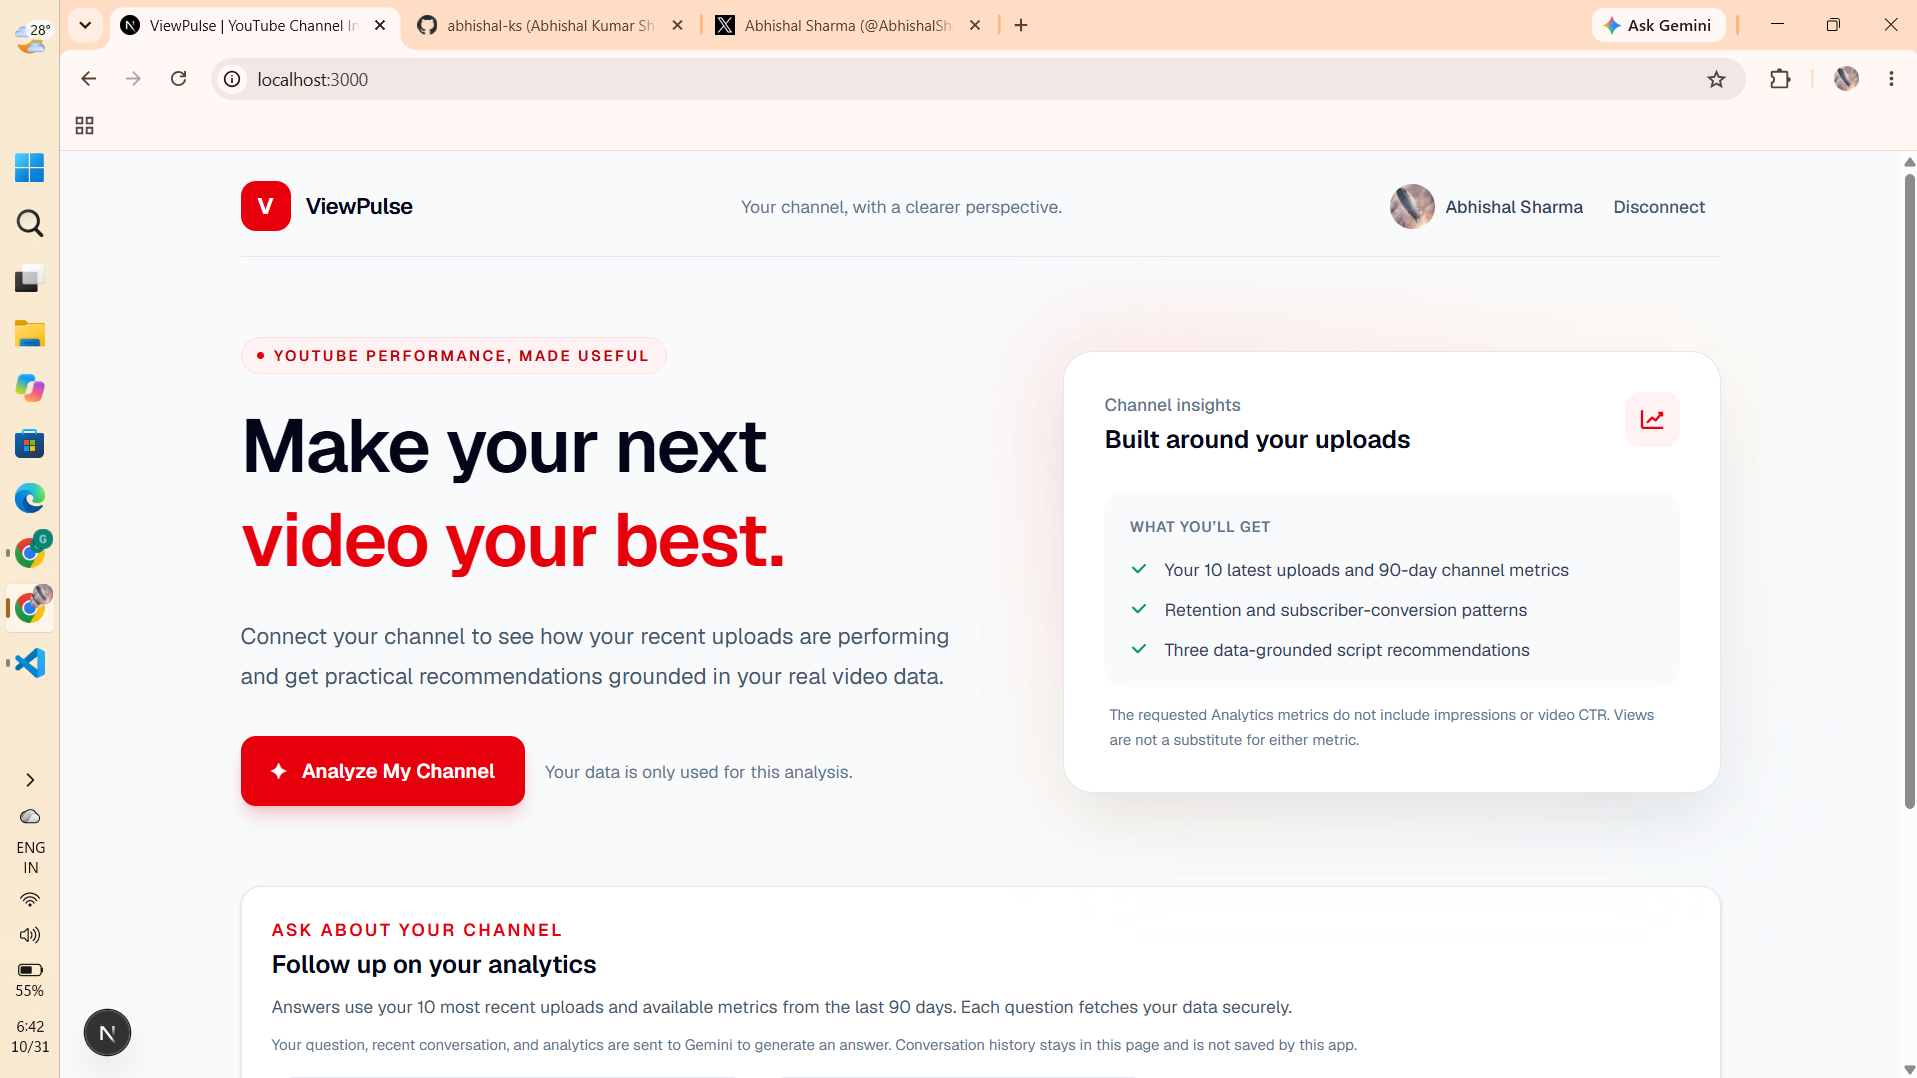
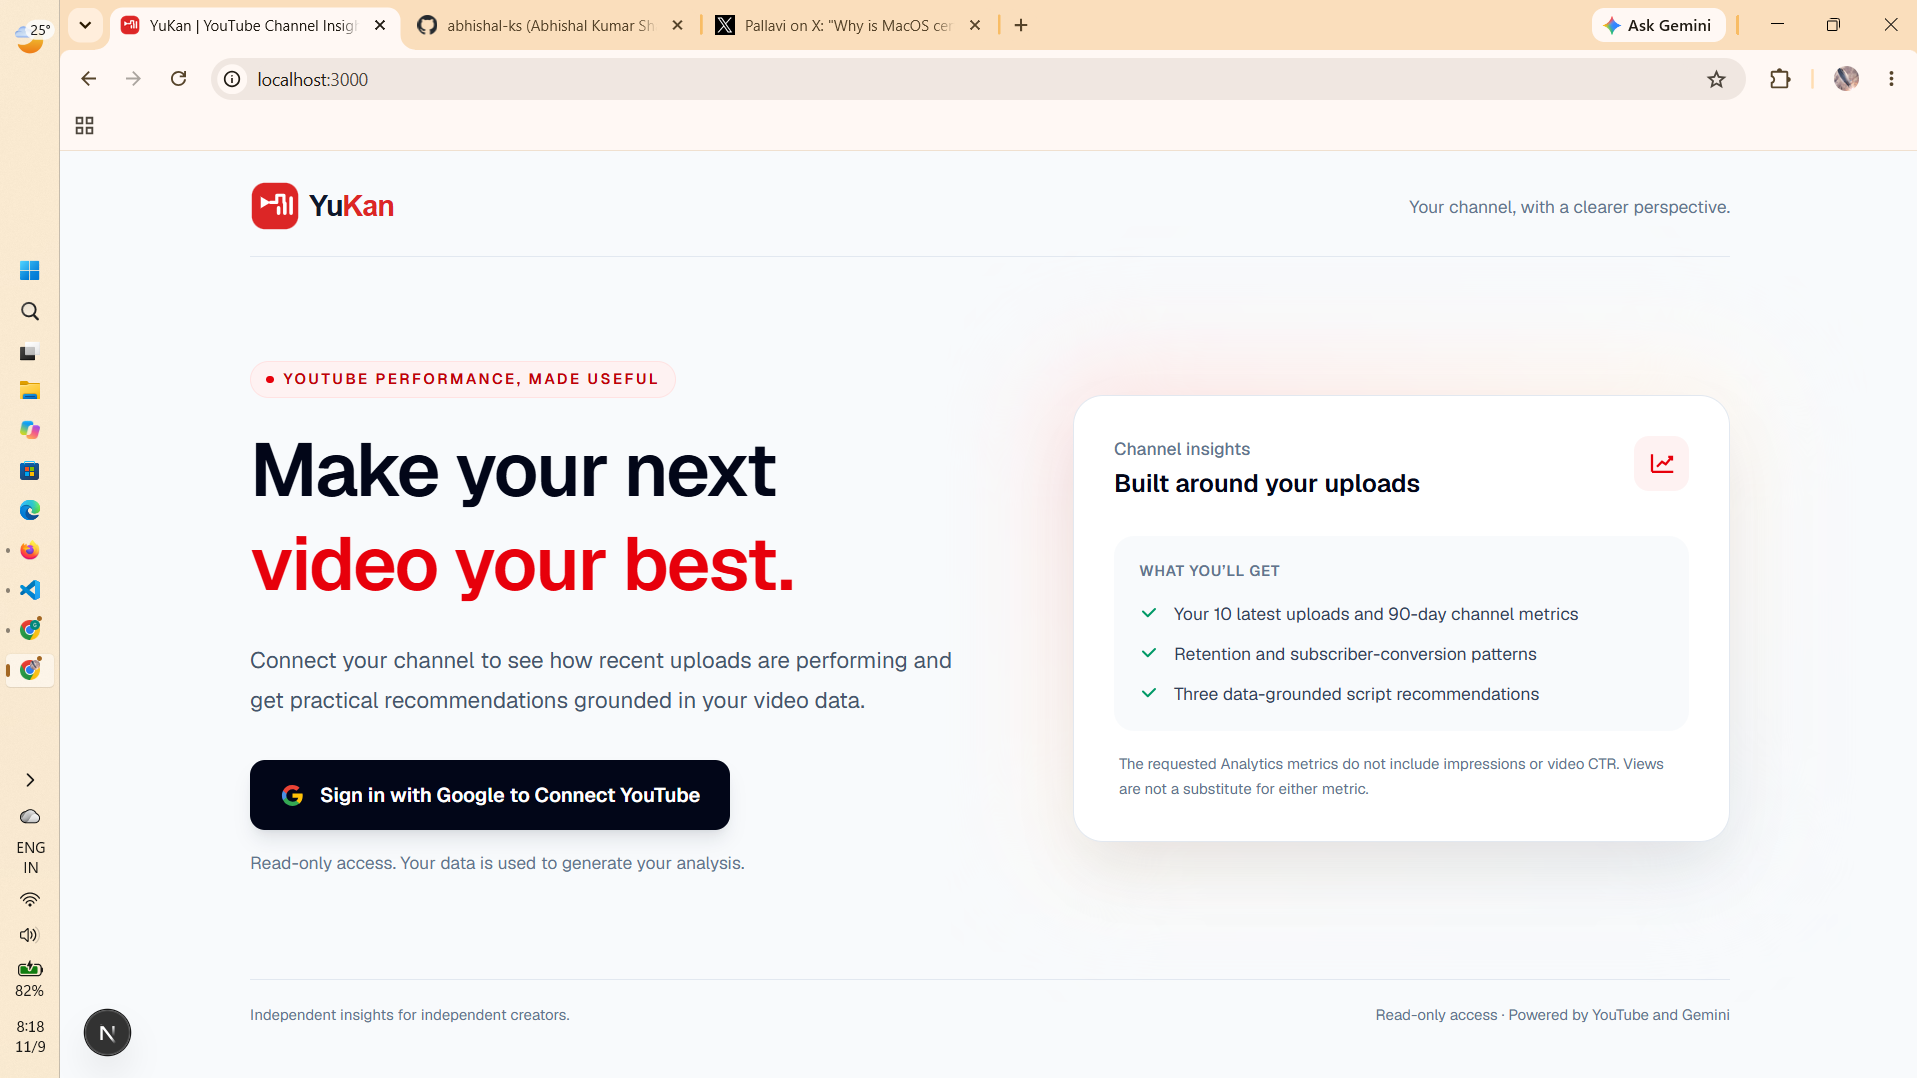
refactor: rename project from ViewPulse to YuKan and update related assets

diff --git a/src/features/landing/landing-page.tsx b/src/features/landing/landing-page.tsx
@@ -1,3 +1,4 @@
+import Image from "next/image";
 import Link from "next/link";
 
 type LandingPageProps = {
@@ -17,13 +18,15 @@ export default function LandingPage({
   return (
     <main className="mx-auto flex min-h-screen w-full max-w-7xl flex-col px-5 py-6 sm:px-8 lg:px-12">
       <header className="flex items-center justify-between border-b border-slate-200 pb-5">
-        <Link href="/" className="flex items-center gap-3" aria-label="ViewPulse home">
-          <span className="grid size-10 place-items-center rounded-xl bg-red-600 text-lg font-bold text-white">
-            V
-          </span>
-          <span className="text-lg font-semibold tracking-tight text-slate-950">
-            ViewPulse
-          </span>
+        <Link href="/" className="flex items-center" aria-label="YuKan home">
+          <Image
+            src="/yukan-logo.svg"
+            alt=""
+            width={216}
+            height={56}
+            priority
+            className="h-10 w-auto"
+          />
         </Link>
         {authenticated ? (
           <Link

diff --git a/src/features/dashboard/dashboard-workspace.tsx b/src/features/dashboard/dashboard-workspace.tsx
@@ -214,13 +214,15 @@ export default function DashboardWorkspace() {
   return (
     <main className="mx-auto flex min-h-screen w-full max-w-7xl flex-col px-5 py-6 sm:px-8 lg:px-12">
       <header className="flex items-center justify-between border-b border-slate-200 pb-5">
-        <Link href="/" className="flex items-center gap-3" aria-label="ViewPulse home">
-          <span className="grid size-10 place-items-center rounded-xl bg-red-600 text-lg font-bold text-white">
-            V
-          </span>
-          <span className="text-lg font-semibold tracking-tight text-slate-950">
-            ViewPulse
-          </span>
+        <Link href="/" className="flex items-center" aria-label="YuKan home">
+          <Image
+            src="/yukan-logo.svg"
+            alt=""
+            width={216}
+            height={56}
+            priority
+            className="h-10 w-auto"
+          />
         </Link>
         <div className="flex items-center gap-3">
           {channelProfileLoading && (

diff --git a/src/features/chat/analytics-chat.tsx b/src/features/chat/analytics-chat.tsx
@@ -152,7 +152,7 @@ export default function AnalyticsChat() {
             }
           >
             <p className="mb-1 text-xs font-semibold uppercase tracking-wide text-slate-500">
-              {message.role === "user" ? "You" : "ViewPulse"}
+              {message.role === "user" ? "You" : "YuKan"}
             </p>
             <p className="whitespace-pre-wrap">{message.content}</p>
           </li>
@@ -169,7 +169,7 @@ export default function AnalyticsChat() {
               role="status"
               className="max-w-3xl rounded-2xl border border-slate-200 bg-white px-4 py-3 text-sm text-slate-600"
             >
-              ViewPulse is reviewing your analytics…
+              YuKan is reviewing your analytics…
             </li>
           </>
         )}

diff --git a/src/app/layout.tsx b/src/app/layout.tsx
@@ -14,7 +14,8 @@ const geistMono = Geist_Mono({
 
 export const metadata: Metadata = {
   metadataBase: new URL("https://yu-kan.vercel.app"),
-  title: "ViewPulse | YouTube Channel Insights",
+  applicationName: "YuKan",
+  title: "YuKan | YouTube Channel Insights",
   description:
     "Understand your recent YouTube uploads with real channel data and AI-powered recommendations.",
   openGraph: {

diff --git a/src/app/page.tsx b/src/app/page.tsx
@@ -18,7 +18,7 @@ export default function Home({ searchParams }: HomeProps) {
           aria-busy="true"
           className="min-h-screen bg-slate-50 px-5 py-10 text-slate-500"
         >
-          Loading ViewPulse…
+          Loading YuKan…
         </main>
       }
     >

diff --git a/README.md b/README.md
@@ -1,12 +1,12 @@
-# ViewPulse
+# YuKan
 
-ViewPulse connects a YouTube channel with read-only Google OAuth access, retrieves its 10 most recent uploads and their last 90 days of video-level analytics, and generates a performance breakdown with Gemini.
+YuKan connects a YouTube channel with read-only Google OAuth access, retrieves its 10 most recent uploads and their last 90 days of video-level analytics, and generates a performance breakdown with Gemini. Its name combines “You” from YouTube with the Japanese word *kan* (pipe), reflecting the pipeline from channel analytics to actionable insights.
 
-![ViewPulse dashboard](./public/dashboard.png)
+![YuKan dashboard](./public/dashboard.png)
 
 ## Deployed app
 
-[Open ViewPulse](https://yu-kan.vercel.app/)
+[Open YuKan](https://yu-kan.vercel.app/)
 
 ## Design and architecture
 
@@ -55,7 +55,7 @@ Never expose these values through `NEXT_PUBLIC_` variables or commit `.env.local
 npm run dev
 ```
 
-Visit [http://localhost:3000](http://localhost:3000) and sign in with Google. After connecting, ViewPulse opens the channel workspace at `/dashboard`; run an analysis there to see the report and ask questions grounded in its analytics. The access and refresh tokens are stored in HTTP-only, same-site cookies and are never sent to client-side JavaScript. If you connected before the YouTube Analytics scope was added, disconnect and sign in again to grant it.
+Visit [http://localhost:3000](http://localhost:3000) and sign in with Google. After connecting, YuKan opens the channel workspace at `/dashboard`; run an analysis there to see the report and ask questions grounded in its analytics. The access and refresh tokens are stored in HTTP-only, same-site cookies and are never sent to client-side JavaScript. If you connected before the YouTube Analytics scope was added, disconnect and sign in again to grant it.
 
 ## API
 
